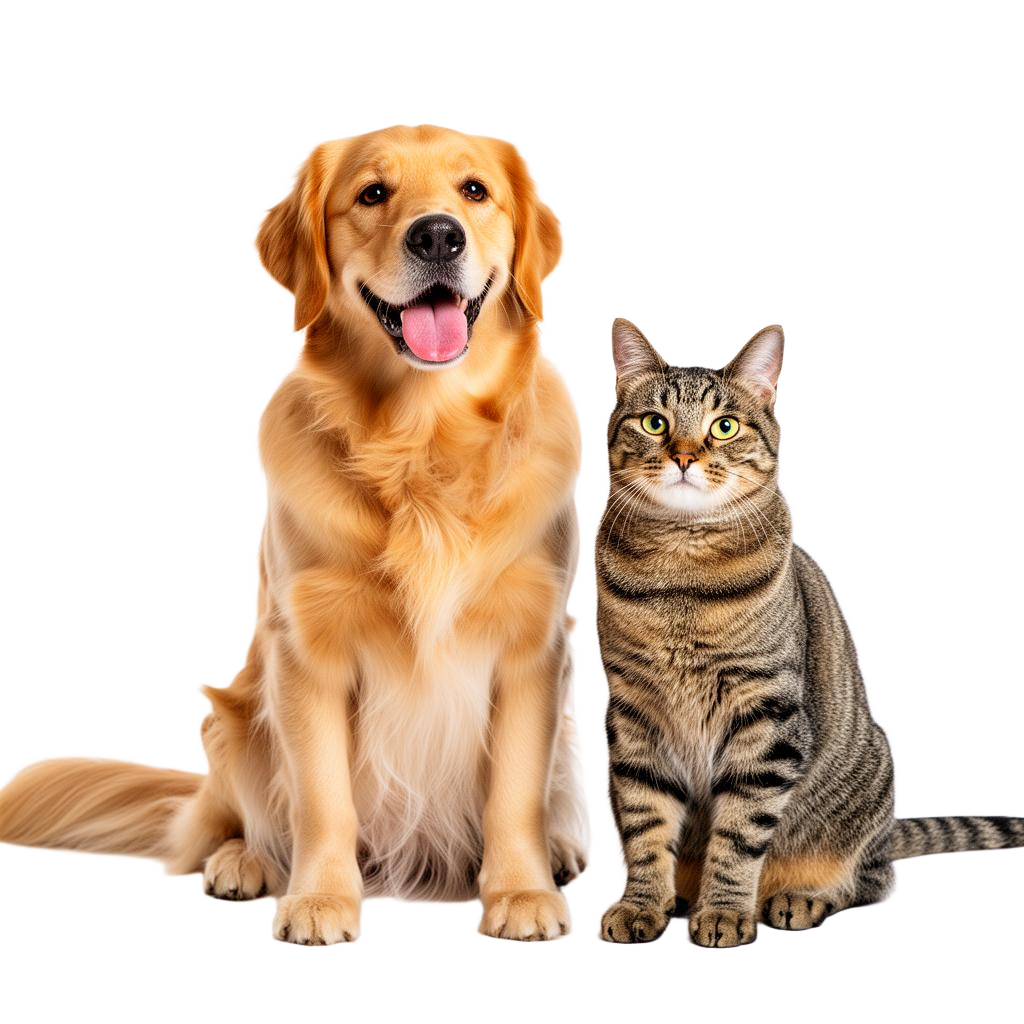
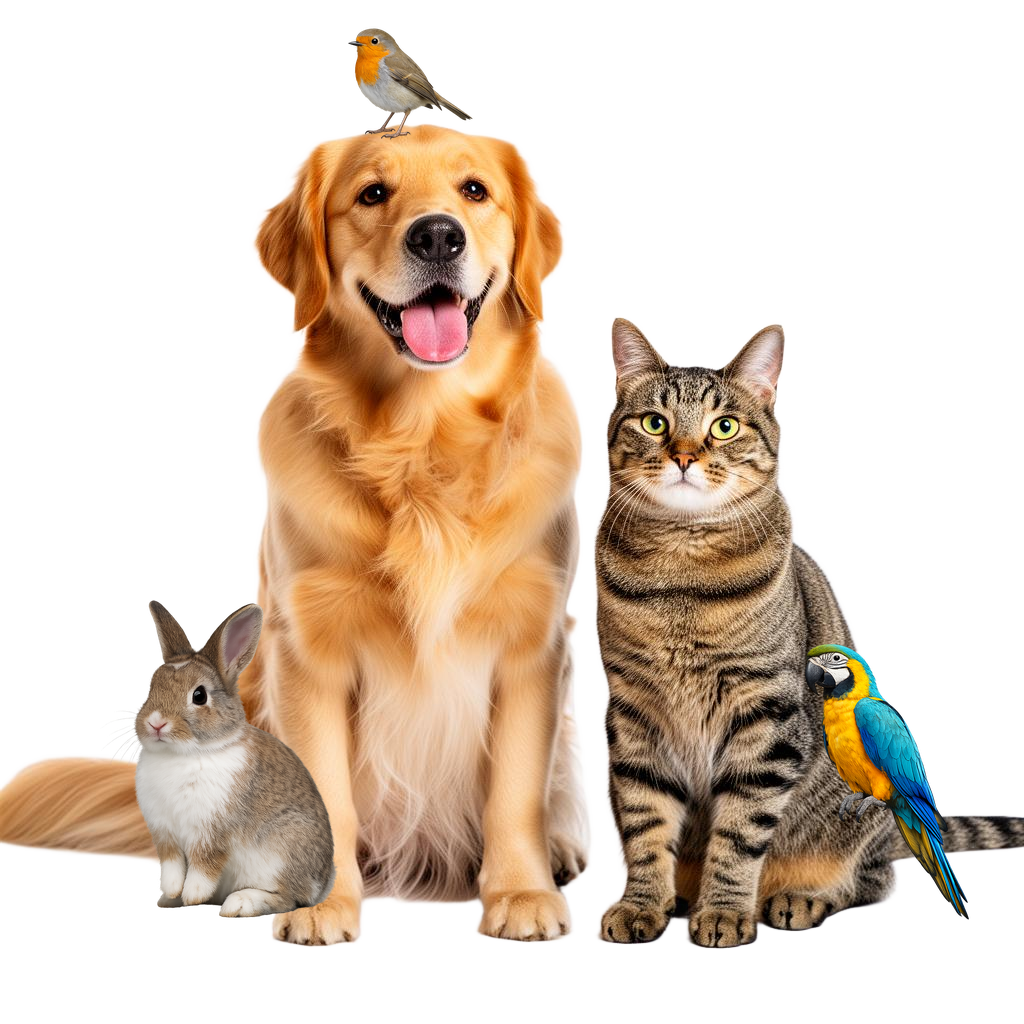
design

Changed region(s): [[0.125, 0.5938, 0.3438, 0.9062], [0.7812, 0.625, 0.9688, 0.9062], [0.3438, 0.0312, 0.4688, 0.1562]]

diff --git a/src/routes/index.tsx b/src/routes/index.tsx
@@ -52,10 +52,10 @@ function Hero() {
       <PawPattern className="absolute bottom-16 left-1/4 h-6 w-6 text-brand-orange/30 -rotate-12 pointer-events-none" />
 
       <div className="relative mx-auto max-w-7xl px-4 sm:px-6 lg:px-8 pt-8 pb-10 sm:pt-10 sm:pb-14 lg:pt-14 lg:pb-16">
-        <div className="grid lg:grid-cols-12 gap-12 lg:gap-10 items-center">
+        <div className="grid lg:grid-cols-12 gap-6 lg:gap-4 items-center">
 
           {/* ── Left: text column ── */}
-          <div className="lg:col-span-7 text-center lg:text-left">
+          <div className="lg:col-span-6 text-center lg:text-left">
             {/* Pill Badge */}
             <span className="inline-flex items-center gap-2 rounded-full bg-white/80 backdrop-blur px-4 py-1.5 text-xs font-bold uppercase tracking-wider text-brand-blue ring-1 ring-brand-blue/15 shadow-sm">
               <PawPattern className="h-3.5 w-3.5 text-brand-blue fill-current animate-wiggle" />
@@ -141,32 +141,36 @@ function Hero() {
             </div>
           </div>
 
-          {/* ── Right: image column ── */}
-          <div className="lg:col-span-5 relative flex justify-center lg:justify-end mt-4 lg:mt-0">
-            <div className="relative w-full max-w-xs sm:max-w-sm lg:max-w-md">
-              {/* Backdrop shape */}
-              <div className="absolute inset-0 bg-brand-green-soft/40 rounded-full filter blur-2xl scale-95 opacity-90 animate-float pointer-events-none" />
-              <div className="absolute top-1/2 left-1/2 -translate-x-1/2 -translate-y-1/2 h-[280px] w-[280px] sm:h-[350px] sm:w-[350px] lg:h-[400px] lg:w-[400px] bg-brand-green/10 rounded-full pointer-events-none shadow-inner" />
+          {/* ── Right: hero pet group image ── */}
+          <div className="lg:col-span-6 relative flex justify-center lg:justify-end mt-4 lg:mt-0 lg:-mr-8">
+            <div className="relative w-full max-w-[480px] sm:max-w-[580px] lg:max-w-none lg:w-[115%]">
 
-              {/* Pet cutout image */}
+              {/* Main pet group image — already contains all animals + decorations */}
               <img
-                src={heroPets}
-                alt="Happy golden retriever and tabby cat"
-                width={1024}
-                height={1024}
-                className="relative z-10 w-full drop-shadow-2xl hover:scale-[1.01] transition-transform duration-500"
+                src="/image.png"
+                alt="Golden retriever, tabby cat, rabbit, cockatiel and green parrot together"
+                className="relative z-10 w-full drop-shadow-xl"
               />
 
-              {/* Floating Social Proof Badge */}
-              <div className="absolute -bottom-2 -left-4 sm:bottom-4 sm:-left-6 z-20 flex items-center gap-3 rounded-full bg-white px-4 py-2.5 sm:px-5 sm:py-3 shadow-pop border border-border/80 max-w-[240px] sm:max-w-[260px]">
+              {/* ── Exotic Pets badge ── */}
+              <div className="absolute bottom-[18%] right-0 z-20 flex items-center gap-2 bg-white rounded-2xl px-3 py-2 shadow-pop border border-border/50 animate-float">
+                <span className="h-8 w-8 rounded-full bg-brand-green-soft flex items-center justify-center shrink-0 text-base leading-none">🐾</span>
+                <div className="text-left leading-tight">
+                  <p className="text-[9px] text-muted-foreground font-medium">Now caring for</p>
+                  <p className="text-sm font-black text-brand-green">Exotic Pets Too!</p>
+                </div>
+              </div>
+
+              {/* ── Social proof badge ── */}
+              <div className="absolute bottom-4 left-0 z-20 flex items-center gap-3 rounded-full bg-white px-4 py-2.5 shadow-pop border border-border/80 max-w-[230px]">
                 <div className="flex -space-x-3 shrink-0">
-                  <img src={avatar1} className="h-8 w-8 sm:h-9 sm:w-9 rounded-full border-2 border-white object-cover shadow-sm bg-brand-blue-soft" alt="User avatar" />
-                  <img src={avatar2} className="h-8 w-8 sm:h-9 sm:w-9 rounded-full border-2 border-white object-cover shadow-sm bg-brand-blue-soft" alt="User avatar" />
-                  <img src={avatar3} className="h-8 w-8 sm:h-9 sm:w-9 rounded-full border-2 border-white object-cover shadow-sm bg-brand-blue-soft" alt="User avatar" />
+                  <img src={avatar1} className="h-8 w-8 rounded-full border-2 border-white object-cover shadow-sm bg-brand-blue-soft" alt="User avatar" />
+                  <img src={avatar2} className="h-8 w-8 rounded-full border-2 border-white object-cover shadow-sm bg-brand-blue-soft" alt="User avatar" />
+                  <img src={avatar3} className="h-8 w-8 rounded-full border-2 border-white object-cover shadow-sm bg-brand-blue-soft" alt="User avatar" />
                 </div>
                 <div className="text-left leading-tight">
-                  <p className="text-xs sm:text-sm font-black text-foreground">1,000+</p>
-                  <p className="text-[9px] sm:text-[10px] text-muted-foreground font-semibold">Happy Pet Parents</p>
+                  <p className="text-xs font-black text-foreground">1,000+</p>
+                  <p className="text-[10px] text-muted-foreground font-semibold">Happy Pet Parents</p>
                 </div>
               </div>
             </div>
@@ -224,35 +228,39 @@ function Services() {
           {SERVICES.slice(0, 5).map((s) => {
             const c = colorMap[s.color];
             return (
-              <article key={s.slug} className="group relative rounded-[2rem] bg-card flex flex-col border border-border shadow-soft hover:shadow-pop hover:-translate-y-1 transition-all duration-300 overflow-hidden">
+              <article key={s.slug} className="group relative rounded-3xl bg-card p-6 sm:p-7 flex flex-col items-center text-center border border-border shadow-soft hover:shadow-pop hover:-translate-y-1 transition-all duration-300">
                 {/* Image & Floating Icon Badge Container */}
-                <div className="relative w-full h-40 sm:h-44 bg-muted overflow-hidden">
-                  <img
-                    src={s.image}
-                    alt={s.title}
-                    className="h-full w-full object-cover group-hover:scale-105 transition-transform duration-500"
-                  />
-                  {/* Floating Icon Badge overlapping the bottom-left of the image */}
-                  <div className={`absolute bottom-3 left-3 h-10 w-10 rounded-full ${c.bg} grid place-items-center ring-4 ring-white shadow-md z-10`}>
-                    <ServiceIcon name={s.icon} className={`h-5 w-5 ${c.text}`} />
+                <div className="mb-4 flex justify-center">
+                  <div className="relative">
+                    <div className="h-32 w-32 sm:h-36 sm:w-36 rounded-full overflow-hidden border-4 border-white shadow-md bg-muted">
+                      <img
+                        src={s.image}
+                        alt={s.title}
+                        className="h-full w-full object-cover group-hover:scale-105 transition-transform duration-500"
+                      />
+                    </div>
+                    {/* Icon Badge overlapping the top-left of the image */}
+                    <div className={`absolute top-0 left-0 h-10 w-10 sm:h-11 sm:w-11 rounded-full ${c.bg} grid place-items-center ring-4 ring-white shadow-md`}>
+                      <ServiceIcon name={s.icon} className={`h-5 w-5 sm:h-5.5 sm:w-5.5 ${c.text}`} />
+                    </div>
                   </div>
                 </div>
 
                 {/* Title & Description */}
-                <div className="p-5 flex flex-col flex-grow text-left">
-                  <h3 className="font-display text-lg font-black text-foreground">{s.title}</h3>
-                  <p className="mt-2 text-xs text-muted-foreground leading-relaxed flex-grow">{s.desc}</p>
+                <h3 className="font-display text-lg sm:text-xl font-bold text-foreground mt-0">{s.title}</h3>
+                <p className="mt-2 text-xs sm:text-sm text-muted-foreground leading-relaxed max-w-[240px]">{s.desc}</p>
 
-                  {/* Button */}
-                  <a
-                    href={`https://wa.me/919985356507?text=${encodeURIComponent(`Hi, I want to book the ${s.title} service for my pet.`)}`}
-                    target="_blank" rel="noopener noreferrer"
-                    className={`mt-4 w-full rounded-full border border-current py-2 flex items-center justify-center gap-2 text-xs font-bold transition-all duration-300 ${c.text} hover:bg-current/5`}
-                  >
+                {/* Button */}
+                <a
+                  href={`https://wa.me/919985356507?text=${encodeURIComponent(`Hi, I want to book the ${s.title} service for my pet.`)}`}
+                  target="_blank" rel="noopener noreferrer"
+                  className="mt-auto pt-5 w-full block"
+                >
+                  <span className={`flex w-full items-center justify-center gap-2 rounded-full border border-current py-2.5 text-xs font-semibold transition-all duration-300 ${c.text} hover:bg-current/5`}>
                     <WhatsAppIcon className="h-4 w-4 fill-current" />
                     <span>Contact</span>
-                  </a>
-                </div>
+                  </span>
+                </a>
               </article>
             );
           })}

diff --git a/src/routes/services/index.tsx b/src/routes/services/index.tsx
@@ -5,8 +5,7 @@ import { Amoeba } from "@/components/site/Amoeba";
 import { ServiceIcon } from "@/components/site/ServiceIcon";
 import { WhatsAppIcon } from "@/components/site/Header";
 import { SERVICES, colorMap } from "@/data/services";
-import heroPets from "@/assets/hero-pets.png";
-import dogCta from "@/assets/dog-cta.png";
+
 import { z } from "zod";
 
 const servicesSearchSchema = z.object({
@@ -48,7 +47,23 @@ function ServicesPage() {
             <div className="absolute inset-0 grid place-items-center">
               <Amoeba variant={1} color="oklch(0.58 0.18 245 / 0.2)" className="h-72 w-72 animate-float" />
             </div>
-            <img src={heroPets} alt="Happy dog and cat" width={1024} height={1024} className="relative z-10 w-full max-w-[320px] sm:max-w-[360px] drop-shadow-2xl" />
+            {/* Video in hero */}
+            <div className="relative z-10 w-full max-w-[340px] sm:max-w-[400px] rounded-[1.5rem] overflow-hidden shadow-pop border border-white/40">
+              <video
+                src="/video.mp4"
+                autoPlay
+                muted
+                loop
+                playsInline
+                className="w-full h-[300px] sm:h-[360px] object-cover"
+                aria-label="Home Pet Services — veterinary care at home"
+              />
+              {/* Subtle brand overlay at bottom */}
+              <div className="absolute bottom-0 left-0 right-0 px-4 py-3 bg-gradient-to-t from-black/55 to-transparent flex items-center gap-2">
+                <div className="h-2 w-2 rounded-full bg-brand-green animate-pulse shrink-0" />
+                <span className="text-white text-[10px] font-bold uppercase tracking-[0.16em]">See us in action</span>
+              </div>
+            </div>
           </div>
         </div>
       </section>
@@ -74,47 +89,49 @@ function ServicesPage() {
             {displayedServices.map((s) => {
               const c = colorMap[s.color];
               return (
-                <article key={s.slug} className={`group relative rounded-[2rem] bg-card flex flex-col border border-border shadow-soft hover:shadow-pop hover:-translate-y-1 transition-all duration-300 overflow-hidden ${displayedServices.length === 1 ? "w-full max-w-sm" : ""}`}>
+                <article key={s.slug} className={`group relative rounded-3xl bg-card p-7 sm:p-8 flex flex-col items-center text-center border border-border shadow-soft hover:shadow-pop hover:-translate-y-1 transition-all duration-300 ${displayedServices.length === 1 ? "w-full max-w-sm" : ""}`}>
                   {/* Image & Floating Icon Badge Container */}
-                  <div className="relative w-full h-48 sm:h-52 bg-muted overflow-hidden">
-                    <img
-                      src={s.image}
-                      alt={s.title}
-                      className="h-full w-full object-cover group-hover:scale-105 transition-transform duration-500"
-                    />
-                    {/* Floating Icon Badge overlapping the bottom-left of the image */}
-                    <div className={`absolute bottom-4 left-4 h-12 w-12 rounded-full ${c.bg} grid place-items-center ring-4 ring-white shadow-md z-10`}>
-                      <ServiceIcon name={s.icon} className={`h-5.5 w-5.5 ${c.text}`} />
+                  <div className="mb-5 flex justify-center">
+                    <div className="relative">
+                      <div className="h-44 w-44 sm:h-48 sm:w-48 rounded-full overflow-hidden border-4 border-white shadow-md bg-muted">
+                        <img
+                          src={s.image}
+                          alt={s.title}
+                          className="h-full w-full object-cover group-hover:scale-105 transition-transform duration-500"
+                        />
+                      </div>
+                      {/* Icon Badge overlapping the top-left of the image */}
+                      <div className={`absolute top-0 left-0 h-12 w-12 rounded-full ${c.bg} grid place-items-center ring-4 ring-white shadow-md`}>
+                        <ServiceIcon name={s.icon} className={`h-5.5 w-5.5 ${c.text}`} />
+                      </div>
                     </div>
                   </div>
 
-                  {/* Title & Description Container */}
-                  <div className="p-6 flex flex-col flex-grow text-left">
-                    <h3 className="font-display text-xl font-black text-foreground">{s.title}</h3>
-                    <p className="mt-3 text-sm text-muted-foreground leading-relaxed flex-grow">{s.desc}</p>
-                    
-                    {/* Button */}
-                    <a
-                      href={`https://wa.me/919985356507?text=${encodeURIComponent(`Hi, I want to book the ${s.title} service for my pet.`)}`}
-                      target="_blank" rel="noopener noreferrer"
-                      className={`mt-6 w-full rounded-full border border-current py-2.5 flex items-center justify-center gap-2 text-sm font-bold transition-all duration-300 ${c.text} hover:bg-current/5`}
-                    >
+                  {/* Title & Description */}
+                  <h3 className="font-display text-xl font-black text-foreground mt-0">{s.title}</h3>
+                  <p className="mt-2.5 text-sm text-muted-foreground leading-relaxed max-w-[260px]">{s.desc}</p>
+                  
+                  {/* Button */}
+                  <a
+                    href={`https://wa.me/919985356507?text=${encodeURIComponent(`Hi, I want to book the ${s.title} service for my pet.`)}`}
+                    target="_blank" rel="noopener noreferrer"
+                    className="mt-auto pt-6 w-full block"
+                  >
+                    <span className={`flex w-full items-center justify-center gap-2 rounded-full border border-current py-3 text-sm font-semibold transition-all duration-300 ${c.text} hover:bg-current/5`}>
                       <WhatsAppIcon className="h-4.5 w-4.5 fill-current" />
                       <span>Contact</span>
-                    </a>
-                  </div>
+                    </span>
+                  </a>
                 </article>
               );
             })}
           </div>
 
-          <div className="mt-10 lg:mt-12 rounded-[2rem] gradient-cta text-white p-8 sm:p-10 grid lg:grid-cols-12 gap-6 items-center overflow-hidden relative">
+          {/* ── CTA Banner ── */}
+          <div className="mt-8 rounded-[2rem] gradient-cta text-white p-8 sm:p-10 grid lg:grid-cols-12 gap-6 items-center overflow-hidden relative">
             <Amoeba variant={4} color="rgba(255,255,255,0.1)" className="absolute -top-16 -right-16 h-64 w-64" />
             <Amoeba variant={1} color="rgba(255,255,255,0.06)" className="absolute -bottom-16 -left-16 h-64 w-64" />
-            <div className="relative lg:col-span-3 flex justify-center">
-              <img src={dogCta} alt="Happy puppy" width={1024} height={1024} className="w-36 drop-shadow-xl animate-float" />
-            </div>
-            <div className="relative lg:col-span-5 text-center lg:text-left">
+            <div className="relative lg:col-span-8 text-center lg:text-left">
               <h2 className="font-display text-3xl font-black">Not sure which service you need?</h2>
               <p className="mt-2 text-white/85 text-sm">Tell us about your pet — we'll recommend the right care.</p>
             </div>

diff --git a/src/styles.css b/src/styles.css
@@ -109,12 +109,13 @@
 
 @layer base {
   * { border-color: var(--color-border); }
-  html { scroll-behavior: smooth; }
+  html { scroll-behavior: smooth; overflow-x: hidden; }
   body {
     background-color: var(--color-background);
     color: var(--color-foreground);
     font-family: var(--font-sans);
     -webkit-font-smoothing: antialiased;
+    overflow-x: hidden;
   }
   h1, h2, h3, h4 { font-family: var(--font-display); letter-spacing: -0.02em; }
 }

diff --git a/src/data/services.ts b/src/data/services.ts
@@ -13,7 +13,7 @@ export const SERVICES = [
   { slug: "home-visits", title: "Home Pet Visits", desc: "Routine check-ups and consultations in the comfort of your home — stress-free for your pet.", color: "blue", icon: "home", image: svHomeVisits },
   { slug: "emergency", title: "Emergency Home Care", desc: "Rapid-response veterinary care when your pet needs urgent attention — any time of day.", color: "pink", icon: "siren", image: svEmergency },
   { slug: "vaccination", title: "Vaccination at Home", desc: "Complete vaccination schedules for puppies, kittens and adults — done safely at home.", color: "green", icon: "syringe", image: svVaccination },
-  { slug: "deworming", title: "Deworming at Home", desc: "Safe deworming protocols tailored to your pet's age, weight and lifestyle.", color: "orange", icon: "shield", image: svDeworming },
+  { slug: "deworming", title: "Specialized Service", desc: "Safe deworming protocols tailored to your pet's age, weight and lifestyle.", color: "orange", icon: "shield", image: svDeworming },
   { slug: "follow-up", title: "Follow-up Treatment", desc: "Continuous care and recovery monitoring after surgery or illness, right at home.", color: "blue", icon: "clipboard", image: svFollowUp },
   { slug: "post-op", title: "Post-Operative Care", desc: "Wound care, suture removal and recovery support after operative procedures.", color: "green", icon: "heart-pulse", image: svPostOp },
   { slug: "checkups", title: "Regular Check-ups", desc: "Preventive wellness exams to catch health issues before they become serious.", color: "yellow", icon: "stethoscope", image: svCheckups },